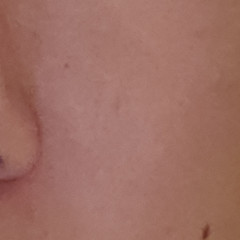
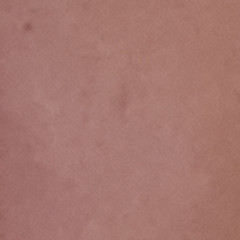
portrait_panel batch2#9 round2: 修颜 review — help text rewrite, soft-stroke/tighter thumbnails, drop teeth thumb, popup padding/width, single-line 涂擦 button

diff --git a/portrait_panel/portrait_panel.py b/portrait_panel/portrait_panel.py
@@ -715,7 +715,7 @@ def build_deshine(image, top, rank, title):
     finally:
         image.undo_group_end()
     Gimp.displays_flush()
-    return ("已建去油光层（只压暗，不带原图像素，之后改高低频也不会被盖掉），蒙版全黑。白色软画笔 20% 在油光上轻涂。"
+    return ("已建去油光层（只压暗，不会把之前的修图盖掉），蒙版全黑。白色软画笔 20% 在油光上轻涂。"
             + (" 没设上：" + "、".join(notes) if notes else ""))
 
 
@@ -845,7 +845,7 @@ def build_workspace(image, key):
             _black_mask(up)
             _select_mask(image, up)
             notes = brush_setup(image, 20.0)
-            msg = "已建「提亮」「压暗」两层（柔光，不带原图像素），蒙版全黑。选中了提亮的蒙版：白色软画笔 20% 轻涂。"
+            msg = "已建「提亮」「压暗」两层（柔光，不会把之前的修图盖掉），蒙版全黑。选中了提亮的蒙版：白色软画笔 20% 轻涂。"
     finally:
         image.undo_group_end()
     Gimp.displays_flush()
@@ -972,25 +972,25 @@ HELP_DIR = os.path.join(os.path.dirname(os.path.abspath(__file__)), "help")
 BUTTON_HELP = {
     "开始修这张": ("备份一份原图并锁住，建「插件改动」组。\n不用涂，点一下就行。\n每张图第一步先点它。", None),
     "去除瑕疵": ("建空的修复层，切到修复画笔。\n按住 Ctrl 点干净皮肤取样，再点痘痘、斑点。\n先去瑕疵，再做别的。", None),
-    "去油光": ("压暗反光的油亮处，不带原图像素。\n蒙版全黑，白色软画笔 20% 在额头、鼻头、下巴的亮斑上轻涂。\n脸上反光明显时用。", "deshine"),
-    "高低频": ("把照片拆成颜色明暗（低频）和纹理（高频）两层。\n低频用软笔刷涂匀色块；高频用修复/仿制修纹理。\n要细修皮肤时用，会替换照片层。", None),
+    "去油光": ("压暗反光的油亮处；只压暗，不会把之前的修图盖掉。\n蒙版全黑，白色软画笔 20% 在额头、鼻头、下巴的亮斑上轻涂。\n脸上反光明显时用。", "deshine"),
+    "高低频": ("把照片拆成两层：低频管颜色和明暗，高频管毛孔纹理。\n低频用软笔刷涂匀色块；高频用修复/仿制修纹理。\n原图有备份，不会丢。要细修皮肤时用。", None),
     "加深减淡": ("建「提亮」「压暗」两层，蒙版全黑。\n白色软画笔低不透明度：亮的地方涂压暗，暗的地方涂提亮。\n修凹凸不平、塑造轮廓时用。", "dnb"),
     "轻柔涂抹": ("在加深减淡层上按很低的流量慢慢涂。\n来回多涂几次叠加效果。\n做完「加深减淡」后用。", None),
     "磨皮": ("还没做。", None),
-    "皮肤减红": ("降低皮肤的红色，不会发亮。\n蒙版全黑，白色软画笔 20% 在发红的脸颊、鼻翼轻涂。\n泛红、痘印红时用。", "dered"),
+    "皮肤减红": ("降低皮肤的红色，不会发亮。\n蒙版全黑，白色软画笔在发红的脸颊、鼻翼轻涂。\n涂满会发灰，20% 轻涂即可。", "dered"),
     "统一肤色": ("把皮肤颜色轻轻往统一的肤色靠，保留纹理。\n蒙版全黑，白色软画笔 20% 在色块不匀的地方轻涂。\n脸上颜色深一块浅一块时用。", "unify"),
-    "按脸液化": ("自动找到脸，用滑块调眼睛大小、下颌、鼻宽。\n不用涂，拖滑块看预览。\n想整体微调脸型时用。", None),
-    "液化": ("网格液化：推、膨胀、收缩、旋转、还原。\n在对话框里用笔刷拖动。\n局部修形（发际、轮廓）时用，幅度要小。", None),
-    "眼部修饰": ("提亮眼白、去红血丝，单独提亮瞳孔。\n先框选眼睛再点；白色软画笔涂眼白，瞳孔在「瞳孔提亮」组蒙版上涂。\n眼睛发灰、发红时用。", "eye"),
-    "牙齿美白": ("提亮牙齿并去黄，不会变成死白。\n先框选牙齿再点，白色软画笔 20% 只涂牙齿。\n牙齿偏黄偏暗时用。", "teeth"),
-    "卧蚕压色": ("把眼下发暗发青的地方压暗并去色。\n蒙版全黑，白色软画笔 20% 沿卧蚕轻涂。\n卧蚕/眼下颜色太重时用。", "undereye"),
-    "选择主体": ("把整个人或脸部皮肤做成选区（边缘略虚）。\n不用涂，在对话框里选范围。\n只想改人或只改背景时用。", None),
-    "人像笔刷": ("一键设好修图常用的笔刷、大小和低不透明度。\n选好用途后直接在蒙版上涂。\n换不同修图步骤时用。", None),
+    "按脸液化": ("自动找到脸，用滑块调眼睛大小、下颌、鼻宽。\n点了会弹出对话框，不用涂，拖滑块看预览。\n想整体微调脸型时用。", None),
+    "液化": ("网格液化：推、膨胀、收缩、旋转、还原。\n点了会弹出对话框，在里面用笔刷拖动。\n局部修形（发际、轮廓）时用，幅度要小。", None),
+    "眼部修饰": ("先框选眼睛再点；白色软画笔涂眼白（提亮、去红血丝）。\n瞳孔：在图层面板点「瞳孔提亮」组的蒙版，再在瞳孔上涂。\n⚙ 调力度，默认眼白 28、瞳孔 30。", "eye"),
+    "牙齿美白": ("提亮牙齿并去黄，不会变成死白。只在露出牙齿的照片上用。\n先框选牙齿再点；选区只圈牙齿，别圈到嘴唇。\n白色软画笔 20% 只涂牙齿。", None),
+    "卧蚕压色": ("把眼下发暗发青的地方压暗并去色。蒙版全黑，白色软画笔沿卧蚕涂。\n涂满会很重，只用 20% 轻涂一两遍；\n觉得重就点 ⚙ 调小。", "undereye"),
+    "选择主体": ("把整个人或脸部皮肤做成选区（边缘略虚）。\n点了会弹出对话框，在里面选范围，不用涂。\n只想改人或只改背景时用。", None),
+    "人像笔刷": ("点开后选步骤，笔刷大小和不透明度自动设好。\n选好后直接在蒙版上涂。\n换不同修图步骤时用。", None),
     "看看涂到哪了": ("把选中层的蒙版显示成半透明红色。\n再点一下关闭。\n想检查有没有漏涂、涂出界时用。", None),
     "涂擦切换": ("前景、背景色互换（同 X 键）。\n白色=涂上效果，黑色=擦掉效果。\n涂多了想擦回来时用。", None),
     "播放动作": ("播放之前录好的一串操作。\n不用涂。\n多张照片要重复同样步骤时用。", None),
-    "锐化": ("新建一层轻微锐化，蒙版全黑，白色涂哪里哪里变锐。\n轻涂眼睛、头发、衣服边缘，皮肤少涂。\n一定最后再涂：它是当时画面的快照，之后的改动不会被锐化。", "sharpen"),
-    "导出": ("批量导出 JPEG/WebP/PNG，可缩放、锐化、加水印。\n不用涂。\n全部修完最后一步用。", None),
+    "锐化": ("新建一层轻微锐化（是点按钮那一刻画面的拷贝）。\n蒙版全黑，白色软画笔轻涂眼睛、头发、衣服边缘，皮肤少涂。\n一定所有步骤做完再点、再涂，否则之后的修改在涂过的地方会被盖掉。", "sharpen"),
+    "导出": ("批量导出 JPEG/WebP/PNG，可缩放、锐化、加水印。\n点了会弹出对话框，不用涂。\n全部修完最后一步用。", None),
 }
 
 
@@ -1223,8 +1223,11 @@ class Panel:
         d.add_button("知道了", Gtk.ResponseType.CLOSE)
         box = d.get_content_area()
         box.set_spacing(6)
+        box.set_border_width(12)
+        d.set_default_size(420, -1)
         lab = Gtk.Label(label=help_text(label, "暂无说明"))
-        lab.set_line_wrap(True); lab.set_xalign(0.0); lab.set_max_width_chars(36)
+        lab.set_line_wrap(True); lab.set_xalign(0.0)
+        lab.set_width_chars(30); lab.set_max_width_chars(40)
         box.pack_start(lab, False, False, 4)
         th = help_thumbs(label)
         if th:
@@ -1235,7 +1238,7 @@ class Panel:
                 col.pack_start(Gtk.Label(label=cap), False, False, 0)
                 row.pack_start(col, False, False, 0)
             box.pack_start(row, False, False, 0)
-            note = Gtk.Label(label="示例为蒙版涂满白色的效果；实际用 20% 软画笔轻涂会更自然。")
+            note = Gtk.Label(label="示例只作参考；实际用 20%～30% 软画笔轻涂，效果以你涂的为准。")
             note.set_line_wrap(True); note.set_xalign(0.0); note.get_style_context().add_class("pp-help")
             box.pack_start(note, False, False, 0)
         d.connect("response", lambda w, _r: w.destroy())
@@ -1247,6 +1250,7 @@ class Panel:
         d.add_buttons("取消", Gtk.ResponseType.CANCEL, "确定", Gtk.ResponseType.OK)
         box = d.get_content_area()
         box.set_spacing(6)
+        box.set_border_width(12)
         lab = Gtk.Label(label="数值越大，涂满时越亮。眼白默认 28，瞳孔默认 30；改了会同时用到已建好的图层。")
         lab.set_line_wrap(True)
         box.pack_start(lab, False, False, 0)
@@ -1273,6 +1277,7 @@ class Panel:
         d.add_buttons("取消", Gtk.ResponseType.CANCEL, "确定", Gtk.ResponseType.OK)
         box = d.get_content_area()
         box.set_spacing(6)
+        box.set_border_width(12)
         lab = Gtk.Label(label=help_text)
         lab.set_line_wrap(True)
         box.pack_start(lab, False, False, 0)
@@ -1300,7 +1305,7 @@ class Panel:
         try:
             fg = Gimp.context_get_foreground().get_rgba()
             lum = 0.3 * fg[0] + 0.6 * fg[1] + 0.1 * fg[2]
-            self.swap_btn.set_label("涂擦切换\n当前：%s" % ("白=涂" if lum >= 0.5 else "黑=擦"))
+            self.swap_btn.set_label("涂擦：%s" % ("白=涂" if lum >= 0.5 else "黑=擦"))
         except Exception:
             pass
 

diff --git a/portrait_panel/make_help_thumbs.py b/portrait_panel/make_help_thumbs.py
@@ -17,14 +17,21 @@ CHEEK = ("ell", (1260, 1960, 300, 320))      # right cheek (viewer's right), bel
 CHEEK_CROP = (1130, 1830, 560, 560)
 # key: (workspace, selection made before the click or None, feathered mask fill, crop rect)
 JOBS = {
-    "dered":    ("ws:dered",    None, CHEEK, CHEEK_CROP),
-    "unify":    ("ws:unify",    None, CHEEK, CHEEK_CROP),
-    "dnb":      ("ws:dnb",      None, CHEEK, CHEEK_CROP),
-    "deshine":  ("ws:deshine",  None, ("ell", (800, 1820, 170, 420)), (640, 1780, 500, 500)),
-    "undereye": ("ws:undereye", None, ("ell", (450, 1705, 330, 80)), (380, 1560, 440, 280)),
+    "dered":    ("ws:dered",    None, "strokes", CHEEK_CROP),
+    "unify":    ("ws:unify",    None, CHEEK, (1250, 1950, 300, 300)),   # tighter crop, max-strength fill
+    "dnb":      ("ws:dnb",      None, "strokes", CHEEK_CROP),
+    "deshine":  ("ws:deshine",  None, ("ell", (800, 1820, 170, 420)), (760, 1880, 260, 260)),   # tighter
+    "undereye": ("ws:undereye", None, "strokes", (380, 1560, 440, 280)),
     "eye":      ("ws:eye", ("ell", (400, 1595, 390, 115)), ("ell", (400, 1595, 390, 115)), (380, 1560, 440, 280)),
-    "teeth":    ("ws:teeth", ("ell", (720, 2500, 480, 170)), ("ell", (720, 2500, 480, 170)), (660, 2440, 600, 320)),
-    "sharpen":  ("ws:sharpen",  None, ("rect", (480, 1580, 240, 160)), (480, 1580, 240, 160)),   # 1:1 crop, eye
+    # teeth: no thumbnail (test photo has a closed mouth) -> text-only help
+    "sharpen":  ("ws:sharpen",  None, ("rect", (480, 1580, 240, 160)), (540, 1620, 120, 80)),   # 2x zoom on the eye
+}
+
+# ~30% soft-brush strokes (feathered elongated dabs, filled at 30% opacity, overlapping like 2-3 passes)
+STROKES = {
+    "dered":    [(1290, 2000, 220, 70), (1320, 2080, 200, 70), (1300, 2160, 180, 60)],
+    "dnb":      [(1290, 2000, 220, 70), (1320, 2080, 200, 70), (1300, 2160, 180, 60)],
+    "undereye": [(470, 1710, 290, 50), (500, 1725, 230, 40)],
 }
 
 
@@ -51,11 +58,20 @@ for key, (ws, sel, fill, crop) in JOBS.items():
         msg = pp.build_workspace(img, ws)
         tgt = img.get_selected_layers()[0]
         m = tgt.get_mask()
-        Gimp.context_push(); Gimp.context_set_opacity(100.0)
+        Gimp.context_push()
         Gimp.context_set_foreground(Gegl.Color.new("white"))
-        select(img, *fill)
-        Gimp.Selection.feather(img, 0 if key == "sharpen" else 40.0)
-        m.edit_fill(Gimp.FillType.FOREGROUND); Gimp.Selection.none(img)
+        if fill == "strokes":
+            Gimp.context_set_opacity(30.0)
+            for r in STROKES[key]:
+                select(img, "ell", r)
+                Gimp.Selection.feather(img, 30.0)
+                m.edit_fill(Gimp.FillType.FOREGROUND)
+        else:
+            Gimp.context_set_opacity(100.0)
+            select(img, *fill)
+            Gimp.Selection.feather(img, 0 if key == "sharpen" else 40.0)
+            m.edit_fill(Gimp.FillType.FOREGROUND)
+        Gimp.Selection.none(img)
         Gimp.context_pop()
         save_crop(img, crop, os.path.join(OUT, key + "_after.jpg"))
         print("HELP ok", key, tgt.get_name(), flush=True)

diff --git a/tests/portrait_panel/test_help.py b/tests/portrait_panel/test_help.py
@@ -20,6 +20,10 @@ for lab in labels:
             pb = GdkPixbuf.Pixbuf.new_from_file(p)
             assert pb.get_width() == 240, (p, pb.get_width())
     print("HELP %s lines=%d thumbs=%s" % (lab, n, bool(th)), flush=True)
-assert "最后" in pp.help_text("锐化")
+assert "所有步骤做完" in pp.help_text("锐化")
+assert pp.help_thumbs("牙齿美白") is None
+assert "会替换照片层" not in pp.help_text("高低频")
+for lab in ("液化", "按脸液化", "选择主体", "导出"):
+    assert "会弹出对话框" in pp.help_text(lab), lab
 assert set(pp.BUTTON_HELP) == set(labels), set(pp.BUTTON_HELP) ^ set(labels)
 print("HELP ALL OK", len(labels), flush=True)
